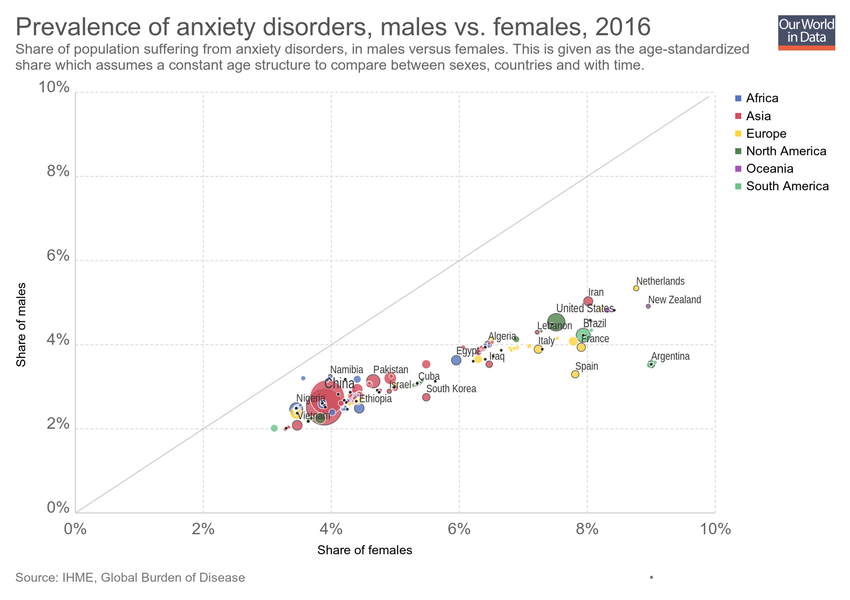
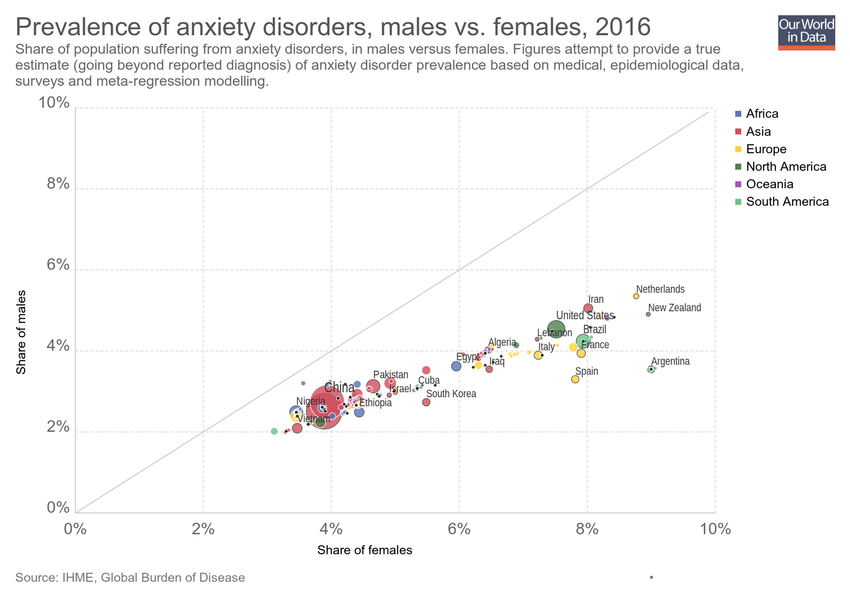
Updating chart prevalence-of-anxiety-disorders-males-vs-females

diff --git a/grapher/prevalence-of-bipolar-disorder-by-age.html b/grapher/prevalence-of-bipolar-disorder-by-age.html
@@ -1,4 +1,4 @@
-<!doctype html><html><head><meta name="viewport" content="width=device-width, initial-scale=1" /><title>Prevalence of bipolar disorder by age - Our World in Data</title><meta name="description" content="Share of population within a given age group suffering from bipolar disorder. This is measured across both sexes." /><link rel="canonical" href="https://ourworldindata.org/grapher/prevalence-of-bipolar-disorder-by-age" /><meta property="fb:app_id" content="1149943818390250" /><meta property="og:url" content="https://ourworldindata.org/grapher/prevalence-of-bipolar-disorder-by-age" /><meta property="og:title" content="Prevalence of bipolar disorder by age" /><meta property="og:description" content="Share of population within a given age group suffering from bipolar disorder. This is measured across both sexes." /><meta property="og:image" content="https://ourworldindata.org/grapher/exports/prevalence-of-bipolar-disorder-by-age.png?v=1" /><meta property="og:image:width" content="850" /><meta property="og:image:height" content="600" /><meta property="og:site_name" content="Our World in Data" /><meta name="twitter:card" content="summary_large_image" /><meta name="twitter:site" content="@OurWorldInData" /><meta name="twitter:creator" content="@OurWorldInData" /><meta name="twitter:title" content="Prevalence of bipolar disorder by age" /><meta name="twitter:description" content="Share of population within a given age group suffering from bipolar disorder. This is measured across both sexes." /><meta name="twitter:image" content="https://ourworldindata.org/grapher/exports/prevalence-of-bipolar-disorder-by-age.png?v=1" /><style>
+<!doctype html><html><head><meta name="viewport" content="width=device-width, initial-scale=1" /><title>Prevalence of bipolar disorder by age - Our World in Data</title><meta name="description" content="Share of population within a given age group suffering from bipolar disorder. This is measured across both sexes. Figures attempt to provide a true estimate (going beyond reported diagnosis) of bipolar disorder prevalence based on medical, epidemiological data, surveys and meta-regression modelling." /><link rel="canonical" href="https://ourworldindata.org/grapher/prevalence-of-bipolar-disorder-by-age" /><meta property="fb:app_id" content="1149943818390250" /><meta property="og:url" content="https://ourworldindata.org/grapher/prevalence-of-bipolar-disorder-by-age" /><meta property="og:title" content="Prevalence of bipolar disorder by age" /><meta property="og:description" content="Share of population within a given age group suffering from bipolar disorder. This is measured across both sexes. Figures attempt to provide a true estimate (going beyond reported diagnosis) of bipolar disorder prevalence based on medical, epidemiological data, surveys and meta-regression modelling." /><meta property="og:image" content="https://ourworldindata.org/grapher/exports/prevalence-of-bipolar-disorder-by-age.png?v=2" /><meta property="og:image:width" content="850" /><meta property="og:image:height" content="600" /><meta property="og:site_name" content="Our World in Data" /><meta name="twitter:card" content="summary_large_image" /><meta name="twitter:site" content="@OurWorldInData" /><meta name="twitter:creator" content="@OurWorldInData" /><meta name="twitter:title" content="Prevalence of bipolar disorder by age" /><meta name="twitter:description" content="Share of population within a given age group suffering from bipolar disorder. This is measured across both sexes. Figures attempt to provide a true estimate (going beyond reported diagnosis) of bipolar disorder prevalence based on medical, epidemiological data, surveys and meta-regression modelling." /><meta name="twitter:image" content="https://ourworldindata.org/grapher/exports/prevalence-of-bipolar-disorder-by-age.png?v=2" /><style>
         html, body {
             height: 100%;
             margin: 0;
@@ -20,8 +20,8 @@
         }
     </style><noscript><style>
                     figure { display: none !important; }
-                </style></noscript><link rel="stylesheet" href="https://ourworldindata.org/grapher/assets/commons.bundle.ac09ff8f098f0c7be836.css" /><link rel="preload" href="/grapher/data/variables/84557+84530+84548+84584+84593+84617+84602+84611+84575+84566.json?v=1" as="fetch" crossorigin /></head><body class="singleChart"><figure data-grapher-src="/grapher/prevalence-of-bipolar-disorder-by-age"></figure><noscript id="fallback"><img src="/grapher/exports/prevalence-of-bipolar-disorder-by-age.svg" /><p>Interactive visualization requires JavaScript</p></noscript><script src="https://cdn.polyfill.io/v2/polyfill.min.js?features=es6,fetch"></script><script src="https://ourworldindata.org/grapher/assets/commons.bundle.ac09ff8f098f0c7be836.js"></script><script src="https://ourworldindata.org/grapher/assets/charts.bundle.dcf65b68eddaba4c6a58.js"></script><script>
-        var jsonConfig = {"map":{"projection":"World","colorSchemeLabels":[],"colorSchemeValues":[],"defaultProjection":"World","colorSchemeMinValue":0,"customNumericColors":[],"customCategoryColors":{},"customCategoryLabels":{},"customHiddenCategories":{}},"tab":"chart","slug":"prevalence-of-bipolar-disorder-by-age","type":"LineChart","title":"Prevalence of bipolar disorder by age","xAxis":{"scaleType":"linear"},"yAxis":{"min":0,"scaleType":"linear"},"version":1,"subtitle":"Share of population within a given age group suffering from bipolar disorder. This is measured across both sexes.","hasMapTab":false,"stackMode":"absolute","dimensions":[{"display":{"name":"25-29 years old","unit":"%"},"property":"y","variableId":84557},{"display":{"name":"10-14 years old","unit":"%"},"property":"y","variableId":84530},{"display":{"name":"20-24 years old","unit":"%"},"property":"y","variableId":84548},{"display":{"name":"5-14 years old","unit":"%"},"property":"y","variableId":84584},{"display":{"name":"15-49 years old","unit":"%"},"property":"y","variableId":84593},{"display":{"name":"Age-standardized","unit":"%"},"property":"y","variableId":84617},{"display":{"name":"50-69 years old","unit":"%"},"property":"y","variableId":84602},{"display":{"name":"70+ years old","unit":"%"},"property":"y","variableId":84611},{"display":{"name":"25-29 years old","unit":"%"},"property":"y","variableId":84557},{"display":{"name":"All ages","unit":"%"},"property":"y","variableId":84575},{"display":{"name":"30-34 years old","unit":"%"},"property":"y","variableId":84566}],"isAutoSlug":true,"sourceDesc":"IHME, Global Burden of Disease","hasChartTab":true,"isPublished":true,"selectedData":[{"index":0,"entityId":355},{"index":1,"entityId":355},{"index":10,"entityId":355},{"index":2,"entityId":355},{"index":3,"entityId":355},{"index":4,"entityId":355},{"index":5,"entityId":355},{"index":6,"entityId":355},{"index":7,"entityId":355},{"index":8,"entityId":355},{"index":9,"entityId":355}],"addCountryMode":"change-country","id":2181};
+                </style></noscript><link rel="stylesheet" href="https://ourworldindata.org/grapher/assets/commons.bundle.ac09ff8f098f0c7be836.css" /><link rel="preload" href="/grapher/data/variables/84557+84530+84548+84584+84593+84617+84602+84611+84575+84566.json?v=2" as="fetch" crossorigin /></head><body class="singleChart"><figure data-grapher-src="/grapher/prevalence-of-bipolar-disorder-by-age"></figure><noscript id="fallback"><img src="/grapher/exports/prevalence-of-bipolar-disorder-by-age.svg" /><p>Interactive visualization requires JavaScript</p></noscript><script src="https://cdn.polyfill.io/v2/polyfill.min.js?features=es6,fetch"></script><script src="https://ourworldindata.org/grapher/assets/commons.bundle.ac09ff8f098f0c7be836.js"></script><script src="https://ourworldindata.org/grapher/assets/charts.bundle.dcf65b68eddaba4c6a58.js"></script><script>
+        var jsonConfig = {"id":2181,"map":{"projection":"World","colorSchemeLabels":[],"colorSchemeValues":[],"colorSchemeMinValue":0,"customNumericColors":[],"customCategoryColors":{},"customCategoryLabels":{},"customHiddenCategories":{}},"tab":"chart","slug":"prevalence-of-bipolar-disorder-by-age","type":"LineChart","title":"Prevalence of bipolar disorder by age","xAxis":{"scaleType":"linear"},"yAxis":{"min":0,"scaleType":"linear"},"version":2,"subtitle":"Share of population within a given age group suffering from bipolar disorder. This is measured across both sexes. Figures attempt to provide a true estimate (going beyond reported diagnosis) of bipolar disorder prevalence based on medical, epidemiological data, surveys and meta-regression modelling.","hasMapTab":false,"stackMode":"absolute","dimensions":[{"display":{"name":"25-29 years old","unit":"%"},"property":"y","variableId":84557},{"display":{"name":"10-14 years old","unit":"%"},"property":"y","variableId":84530},{"display":{"name":"20-24 years old","unit":"%"},"property":"y","variableId":84548},{"display":{"name":"5-14 years old","unit":"%"},"property":"y","variableId":84584},{"display":{"name":"15-49 years old","unit":"%"},"property":"y","variableId":84593},{"display":{"name":"Age-standardized","unit":"%"},"property":"y","variableId":84617},{"display":{"name":"50-69 years old","unit":"%"},"property":"y","variableId":84602},{"display":{"name":"70+ years old","unit":"%"},"property":"y","variableId":84611},{"display":{"name":"25-29 years old","unit":"%"},"property":"y","variableId":84557},{"display":{"name":"All ages","unit":"%"},"property":"y","variableId":84575},{"display":{"name":"30-34 years old","unit":"%"},"property":"y","variableId":84566}],"sourceDesc":"IHME, Global Burden of Disease","hasChartTab":true,"isPublished":true,"selectedData":[{"index":0,"entityId":355},{"index":1,"entityId":355},{"index":10,"entityId":355},{"index":2,"entityId":355},{"index":3,"entityId":355},{"index":4,"entityId":355},{"index":5,"entityId":355},{"index":6,"entityId":355},{"index":7,"entityId":355},{"index":8,"entityId":355},{"index":9,"entityId":355}],"addCountryMode":"change-country"};
         var figure = document.getElementsByTagName("figure")[0];
         try {
             window.App = {};

diff --git a/grapher/rate-of-internationally-observed-elections-nelda.html b/grapher/rate-of-internationally-observed-elections-nelda.html
@@ -1,4 +1,4 @@
-<!doctype html><html><head><meta name="viewport" content="width=device-width, initial-scale=1" /><title>Internationally observed elections by Western monitors (%) - Our World in Data</title><meta name="description" content="Percentage of internationally observed elections and whether they were criticized by Western monitors. Western monitors are election observers from Western countries (as defined by OECD membership). Criticism refers to allegations of significant vote-fraud" /><link rel="canonical" href="https://ourworldindata.org/grapher/rate-of-internationally-observed-elections-nelda" /><meta property="fb:app_id" content="1149943818390250" /><meta property="og:url" content="https://ourworldindata.org/grapher/rate-of-internationally-observed-elections-nelda" /><meta property="og:title" content="Internationally observed elections by Western monitors (%)" /><meta property="og:description" content="Percentage of internationally observed elections and whether they were criticized by Western monitors. Western monitors are election observers from Western countries (as defined by OECD membership). Criticism refers to allegations of significant vote-fraud" /><meta property="og:image" content="https://ourworldindata.org/grapher/exports/rate-of-internationally-observed-elections-nelda.png?v=10" /><meta property="og:image:width" content="850" /><meta property="og:image:height" content="600" /><meta property="og:site_name" content="Our World in Data" /><meta name="twitter:card" content="summary_large_image" /><meta name="twitter:site" content="@OurWorldInData" /><meta name="twitter:creator" content="@OurWorldInData" /><meta name="twitter:title" content="Internationally observed elections by Western monitors (%)" /><meta name="twitter:description" content="Percentage of internationally observed elections and whether they were criticized by Western monitors. Western monitors are election observers from Western countries (as defined by OECD membership). Criticism refers to allegations of significant vote-fraud" /><meta name="twitter:image" content="https://ourworldindata.org/grapher/exports/rate-of-internationally-observed-elections-nelda.png?v=10" /><style>
+<!doctype html><html><head><meta name="viewport" content="width=device-width, initial-scale=1" /><title>Internationally observed elections by Western monitors (%) - Our World in Data</title><meta name="description" content="Percentage of internationally observed elections and whether they were criticized by Western monitors. Western monitors are election observers from Western countries (as defined by OECD membership). Criticism refers to allegations of significant vote-fraud" /><link rel="canonical" href="https://ourworldindata.org/grapher/rate-of-internationally-observed-elections-nelda" /><meta property="fb:app_id" content="1149943818390250" /><meta property="og:url" content="https://ourworldindata.org/grapher/rate-of-internationally-observed-elections-nelda" /><meta property="og:title" content="Internationally observed elections by Western monitors (%)" /><meta property="og:description" content="Percentage of internationally observed elections and whether they were criticized by Western monitors. Western monitors are election observers from Western countries (as defined by OECD membership). Criticism refers to allegations of significant vote-fraud" /><meta property="og:image" content="https://ourworldindata.org/grapher/exports/rate-of-internationally-observed-elections-nelda.png?v=11" /><meta property="og:image:width" content="850" /><meta property="og:image:height" content="600" /><meta property="og:site_name" content="Our World in Data" /><meta name="twitter:card" content="summary_large_image" /><meta name="twitter:site" content="@OurWorldInData" /><meta name="twitter:creator" content="@OurWorldInData" /><meta name="twitter:title" content="Internationally observed elections by Western monitors (%)" /><meta name="twitter:description" content="Percentage of internationally observed elections and whether they were criticized by Western monitors. Western monitors are election observers from Western countries (as defined by OECD membership). Criticism refers to allegations of significant vote-fraud" /><meta name="twitter:image" content="https://ourworldindata.org/grapher/exports/rate-of-internationally-observed-elections-nelda.png?v=11" /><style>
         html, body {
             height: 100%;
             margin: 0;
@@ -20,8 +20,8 @@
         }
     </style><noscript><style>
                     figure { display: none !important; }
-                </style></noscript><link rel="stylesheet" href="https://ourworldindata.org/grapher/assets/commons.bundle.ac09ff8f098f0c7be836.css" /><link rel="preload" href="/grapher/data/variables/97382+97383.json?v=10" as="fetch" crossorigin /></head><body class="singleChart"><figure data-grapher-src="/grapher/rate-of-internationally-observed-elections-nelda"></figure><noscript id="fallback"><img src="/grapher/exports/rate-of-internationally-observed-elections-nelda.svg" /><p>Interactive visualization requires JavaScript</p></noscript><script src="https://cdn.polyfill.io/v2/polyfill.min.js?features=es6,fetch"></script><script src="https://ourworldindata.org/grapher/assets/commons.bundle.ac09ff8f098f0c7be836.js"></script><script src="https://ourworldindata.org/grapher/assets/charts.bundle.dcf65b68eddaba4c6a58.js"></script><script>
-        var jsonConfig = {"id":2590,"map":{"projection":"World","colorSchemeLabels":[],"colorSchemeValues":[],"colorSchemeMinValue":0,"customNumericColors":[],"customCategoryColors":{},"customCategoryLabels":{},"customHiddenCategories":{}},"tab":"chart","note":"Includes 2435 election events in 162 countries.","slug":"rate-of-internationally-observed-elections-nelda","type":"StackedArea","title":"Internationally observed elections by Western monitors (%)","xAxis":{"scaleType":"linear"},"yAxis":{"min":0,"scaleType":"linear"},"version":10,"subtitle":"Percentage of internationally observed elections and whether they were criticized by Western monitors. Western monitors are election observers from Western countries (as defined by OECD membership). Criticism refers to allegations of significant vote-fraud","hasMapTab":false,"stackMode":"absolute","dimensions":[{"display":{"name":"Percent of elections observed and criticized"},"property":"y","variableId":97382},{"display":{"name":"Percent of elections observed and not criticized"},"property":"y","variableId":97383}],"hasChartTab":true,"isPublished":true,"selectedData":[{"index":0,"entityId":355},{"index":1,"entityId":355}],"addCountryMode":"change-country","baseColorScheme":"Viridis","hideRelativeToggle":true,"hideTitleAnnotation":true};
+                </style></noscript><link rel="stylesheet" href="https://ourworldindata.org/grapher/assets/commons.bundle.ac09ff8f098f0c7be836.css" /><link rel="preload" href="/grapher/data/variables/97382+97383.json?v=11" as="fetch" crossorigin /></head><body class="singleChart"><figure data-grapher-src="/grapher/rate-of-internationally-observed-elections-nelda"></figure><noscript id="fallback"><img src="/grapher/exports/rate-of-internationally-observed-elections-nelda.svg" /><p>Interactive visualization requires JavaScript</p></noscript><script src="https://cdn.polyfill.io/v2/polyfill.min.js?features=es6,fetch"></script><script src="https://ourworldindata.org/grapher/assets/commons.bundle.ac09ff8f098f0c7be836.js"></script><script src="https://ourworldindata.org/grapher/assets/charts.bundle.dcf65b68eddaba4c6a58.js"></script><script>
+        var jsonConfig = {"id":2590,"map":{"projection":"World","colorSchemeLabels":[],"colorSchemeValues":[],"colorSchemeMinValue":0,"customNumericColors":[],"customCategoryColors":{},"customCategoryLabels":{},"customHiddenCategories":{}},"tab":"chart","note":"Includes 2435 election events in 162 countries.","slug":"rate-of-internationally-observed-elections-nelda","type":"StackedArea","title":"Internationally observed elections by Western monitors (%)","xAxis":{"scaleType":"linear"},"yAxis":{"min":0,"scaleType":"linear"},"version":11,"subtitle":"Percentage of internationally observed elections and whether they were criticized by Western monitors. Western monitors are election observers from Western countries (as defined by OECD membership). Criticism refers to allegations of significant vote-fraud","hasMapTab":false,"stackMode":"absolute","dimensions":[{"display":{"name":"Percent of elections observed and criticized"},"property":"y","variableId":97382},{"display":{"name":"Percent of elections observed and not criticized"},"property":"y","variableId":97383}],"hasChartTab":true,"isPublished":true,"selectedData":[{"index":0,"entityId":355},{"index":1,"entityId":355}],"addCountryMode":"change-country","baseColorScheme":"Viridis","hideRelativeToggle":true,"hideTitleAnnotation":true};
         var figure = document.getElementsByTagName("figure")[0];
         try {
             window.App = {};
